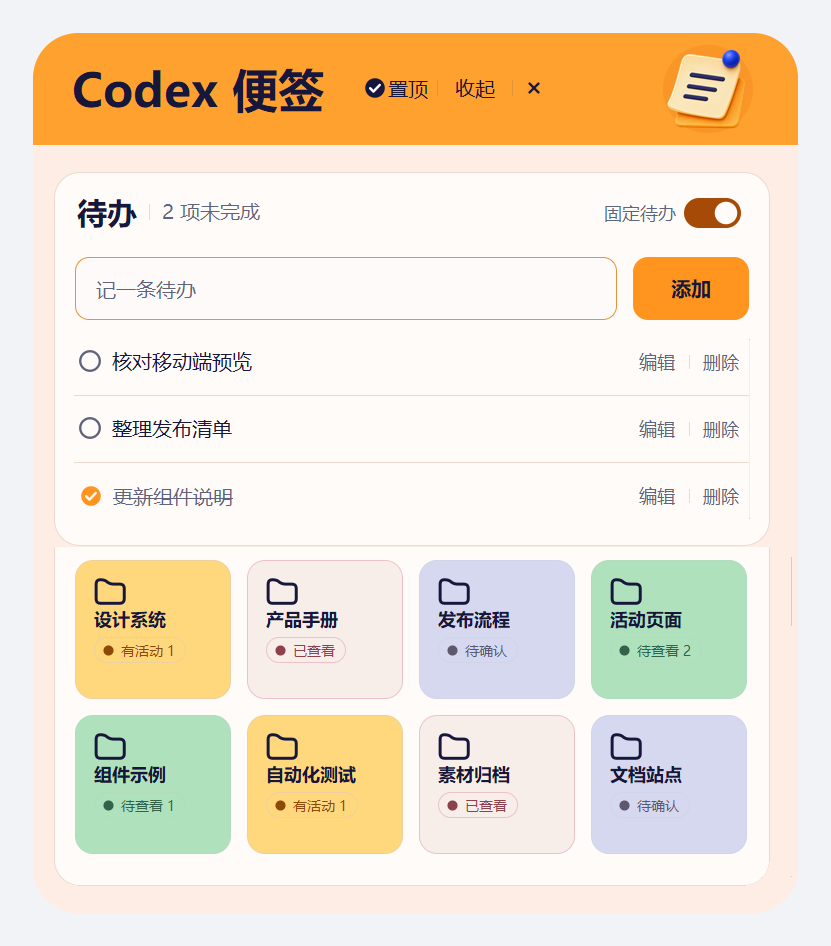
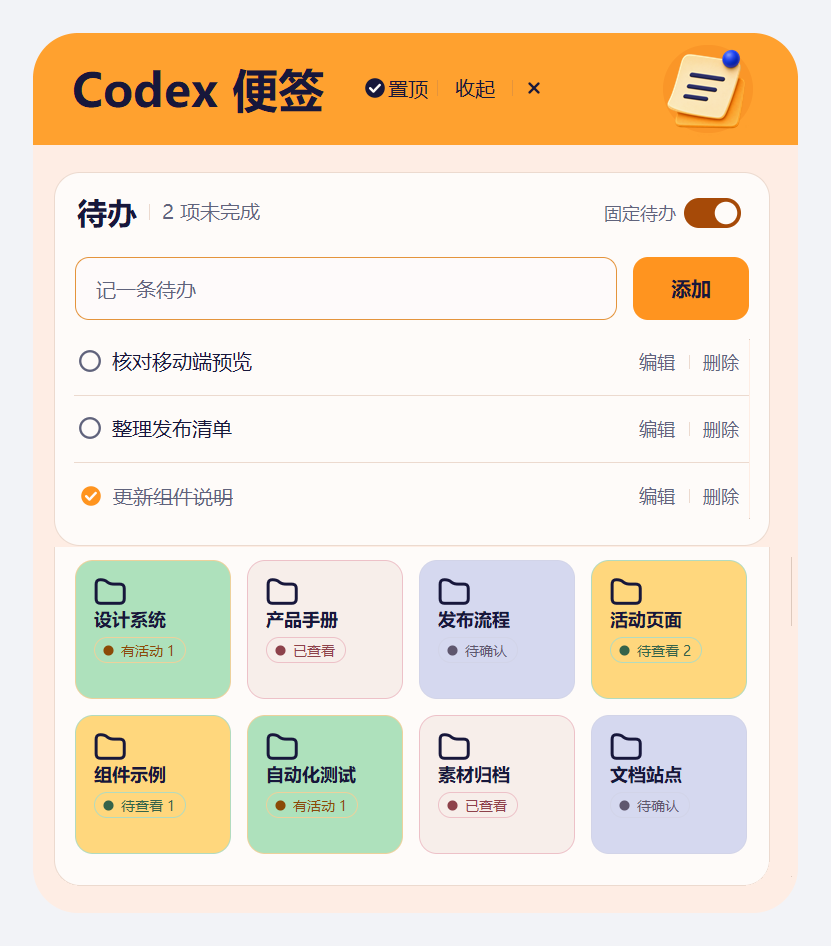
Swap activity and unread card backgrounds

Changed region(s): [[0.0903, 0.5825, 0.4813, 0.9197], [0.6919, 0.5825, 0.9025, 0.7357]]

diff --git a/tests/check_window.py b/tests/check_window.py
@@ -205,7 +205,7 @@ def check_window(store, *, preview=False, project_color_demo=None):
                 check_antialiased_corners(card, "surface")
                 check_antialiased_corners(card, "status-badge")
                 expected = {
-                    None: ("#FFD77D", "#F7EEEA", "#AEE1BC", "#D5D8EF"),
+                    None: ("#AEE1BC", "#F7EEEA", "#FFD77D", "#D5D8EF"),
                     "vivid-pastels": ("#FFD77D", "#F9BCCB", "#AEE1BC", "#D5D8EF"),
                     "high-contrast": ("#F7B844", "#ED9EAB", "#94D9AB", "#BEC8E1"),
                 }
@@ -320,7 +320,7 @@ def check_window(store, *, preview=False, project_color_demo=None):
             assert first.fill == ORANGE.project_colors["running"][0]
             assert second.fill == ORANGE.project_colors["unread"][0]
         elif orange_theme:
-            expected = {"running": "#FFD77D", "one": "#AEE1BC", "older-0": "#F7EEEA",
+            expected = {"running": "#AEE1BC", "one": "#FFD77D", "older-0": "#F7EEEA",
                         "older-1": "#D5D8EF", "older-2": "#F7EEEA", "older-3": "#F7EEEA"}
             for thread_id, fill in expected.items():
                 link = popup.links[thread_id]

diff --git a/plugins/codex-sticky-notes/palette.py b/plugins/codex-sticky-notes/palette.py
@@ -75,7 +75,12 @@ VIVID_PASTEL_BACKGROUNDS = {
 }
 ORANGE_MAIN = replace(
     ORANGE,
-    status_backgrounds={**VIVID_PASTEL_BACKGROUNDS, "read": ("#F7EEEA", "#F3E7E2")},
+    status_backgrounds={
+        "running": VIVID_PASTEL_BACKGROUNDS["unread"],
+        "unread": VIVID_PASTEL_BACKGROUNDS["running"],
+        "read": ("#F7EEEA", "#F3E7E2"),
+        "unknown": VIVID_PASTEL_BACKGROUNDS["unknown"],
+    },
 )
 
 # Normal and selected fills for the project tiles only.
